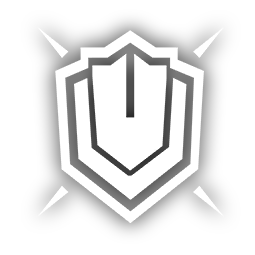
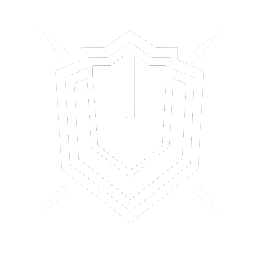
fixed transparency issues on classes

Changed region(s): [[0.1647, 0.0824, 0.8784, 0.9059]]

diff --git a/script/select.js b/script/select.js
@@ -74,46 +74,17 @@ function ChangeStatLevel(statElement, changeTo = null) {
     }
 }
 
-// Selects class button and saves to local details
-// classType (string)
-//
 function SelectClass(newSelectedClass) {
+    /*
+        Changes the selected class to the one passed
+        through the function
+        :newSelectedClass - A lowercase string that 
+                            determines the new class
+    */
     const CLASS_SELECTOR = document.getElementById('class-selector');
+    const VALID_CLASSES = ['guard', 'caster', 'striker', 'vanguard', 'defender', 'supporter'];
+
+    if (!VALID_CLASSES.includes(newSelectedClass)) return ErrorLog("Attempted class change is invalid")
     
     CLASS_SELECTOR.dataset.selectedclass = newSelectedClass;
-    Log(CLASS_SELECTOR.dataset.selectedclass);
-
-    /*
-    if (classType == 'guard') {
-        selectedClass = document.getElementById('button-guard');
-    }
-    else if (classType == 'caster') {
-        selectedClass = document.getElementById('button-caster');
-    }
-    else if (classType == 'striker') {
-        selectedClass = document.getElementById('button-striker');
-    }
-    else if (classType == 'vanguard') {
-        selectedClass = document.getElementById('button-vanguard');
-    }
-    else if (classType == 'defender') {
-        selectedClass = document.getElementById('button-defender');
-    }
-    else if (classType == 'supporter') {
-        selectedClass = document.getElementById('button-supporter');
-    }
-
-    if (currentlySelectedClass != null && currentlySelectedClass == selectedClass) {
-        return;
-    }
-    
-    selectedClass.classList.add('selected-class');
-    if (currentlySelectedClass != null) {
-        currentlySelectedClass.classList.remove('selected-class');
-    }
-
-    currentlySelectedClass = selectedClass;
-
-    localDetails.class = classType;
-    */
 }

diff --git a/script/handle_data.js b/script/handle_data.js
@@ -126,44 +126,7 @@ function SelectWeapon(weaponType) {
     localDetails.weapon = weaponType;
 }
 
-// Selects class button and saves to local details
-// classType (string)
-//
-function SelectClass(classType) {
-    let selectedClass = null;
 
-    if (classType == 'guard') {
-        selectedClass = document.getElementById('button-guard');
-    }
-    else if (classType == 'caster') {
-        selectedClass = document.getElementById('button-caster');
-    }
-    else if (classType == 'striker') {
-        selectedClass = document.getElementById('button-striker');
-    }
-    else if (classType == 'vanguard') {
-        selectedClass = document.getElementById('button-vanguard');
-    }
-    else if (classType == 'defender') {
-        selectedClass = document.getElementById('button-defender');
-    }
-    else if (classType == 'supporter') {
-        selectedClass = document.getElementById('button-supporter');
-    }
-
-    if (currentlySelectedClass != null && currentlySelectedClass == selectedClass) {
-        return;
-    }
-    
-    selectedClass.classList.add('selected-class');
-    if (currentlySelectedClass != null) {
-        currentlySelectedClass.classList.remove('selected-class');
-    }
-
-    currentlySelectedClass = selectedClass;
-
-    localDetails.class = classType;
-}
 
 function LoadCharName(charName) {
     document.getElementById('name-input').value = charName;
